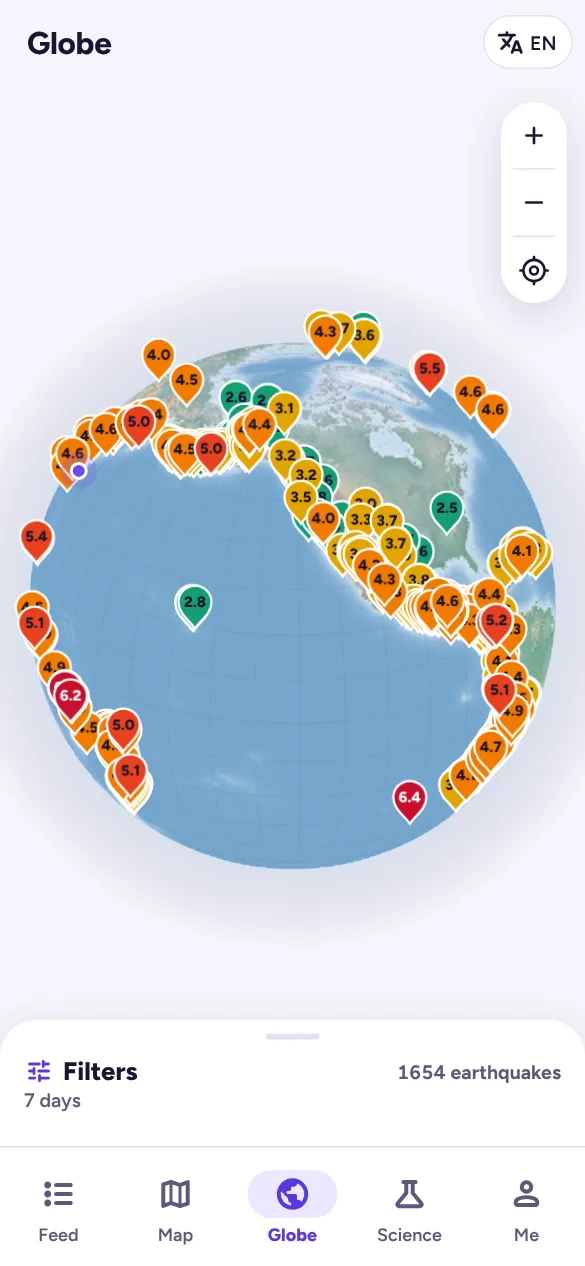
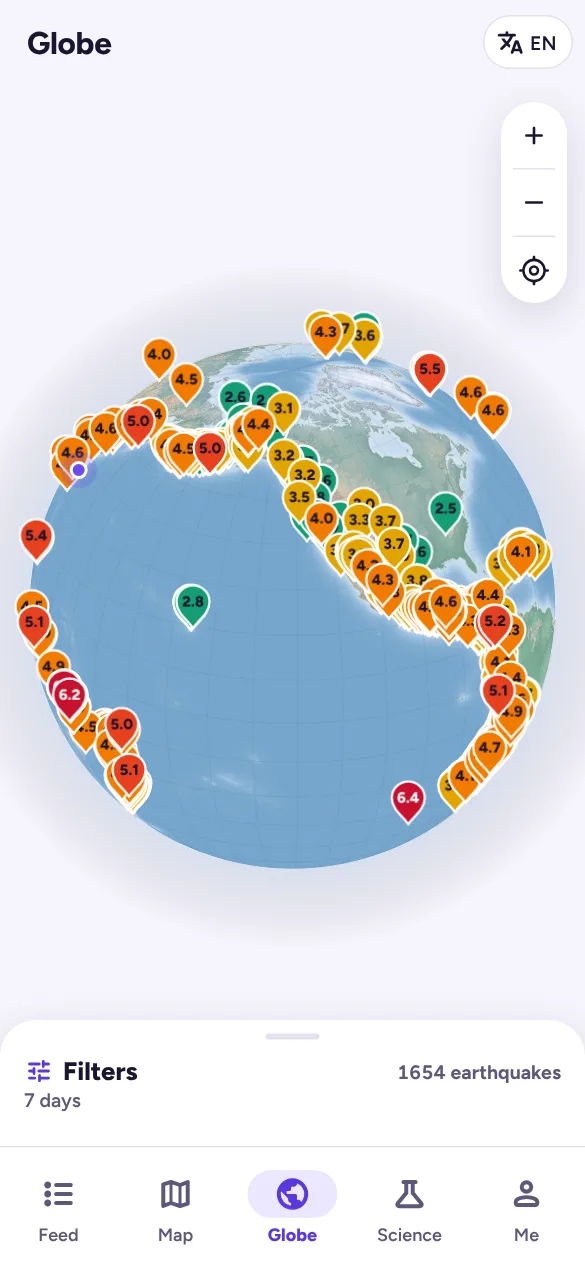
Globe: draw the relief with WebGL instead of resampling it per frame
The globe rebuilt its relief on the CPU each frame from a 2048 px texture at
up to 70,000 samples, then scaled the result up: zoomed in, every sample
covered several screen pixels, so coastlines were blocky and crawled as the
globe turned.

lib/relief-globe.ts draws it on the GPU instead, on a canvas under the 2D
canvas: a fragment shader maps each screen pixel back to longitude/latitude
(the same inverse as orthoInvert) and reads a 4096 x 2048 texture with
mipmapped linear filtering (WebGL 2; linear in WebGL 1), with an
anti-aliased edge. The detail level comes from the globe's size on screen,
so there is no seam at 180 degrees. It redraws only when the view moves, is
created only in the light theme (no context or download in dark), and
without WebGL the globe keeps the flat colours. The 2D canvas keeps the glow
outside the sphere and draws graticule, coastlines, plates and pins on top.

globe.webp is now 4096 x 2048 (about 400 kB). Help globe screenshot (light)
retaken; docs/maps-setup.md and CLAUDE.md updated.

Claude-Session: https://claude.ai/code/session_01VVoEA6g7d5oSRS2St1KTEW

diff --git a/app/src/components/Globe.tsx b/app/src/components/Globe.tsx
@@ -9,7 +9,8 @@ import { geoDistance, geoGraticule10, geoOrthographic, geoPath } from 'd3-geo';
 import { select } from 'd3-selection';
 import { zoom, zoomIdentity, zoomTransform, type ZoomBehavior } from 'd3-zoom';
 import { depthColor, depthInk, magIndex } from '@/lib/theme';
-import { RELIEF_ON, reliefGlobePixels } from '@/lib/relief';
+import { RELIEF_ON } from '@/lib/relief';
+import { createReliefGlobe } from '@/lib/relief-globe';
 import { markerHit } from '@/lib/pin';
 import { markerSprite, stampSprite } from '@/lib/marker-sprite';
 import { useMarkerStyle } from '@/components/MarkerStyle';
@@ -35,8 +36,6 @@ const TURN_MS = 700;
 const LOCATE_K = 4;
 
 const GRATICULE = geoGraticule10();
-/** Relief on the globe: at most this many texture samples per frame (scaled up to the globe's size on screen). */
-const RELIEF_SAMPLES = 70_000;
 // Remember the view between visits to the tab, like the design (globeRot / globeK).
 const memo: { rot: [number, number, number] | null; k: number } = { rot: null, k: 1 };
 
@@ -157,46 +156,19 @@ export const Globe = forwardRef<GlobeHandle, Props>(function Globe(props, ref) {
     st.px = 0; st.py = 0; st.pk = memo.k;
     zoomRef.current = { z, el: cv };
 
-    // Light theme: the relief texture (lib/relief.ts) reprojected onto the visible disc at up to RELIEF_SAMPLES points,
-    // drawn scaled up and clipped to the sphere. Recomputed only when the view moves. False until the texture is in.
-    const rel = { cv: document.createElement('canvas'), img: null as ImageData | null, key: '' };
-    const drawRelief = (Rs: number, rot: [number, number, number]) => {
-      const tex = reliefGlobePixels();
-      if (!tex) return false;
-      const x0 = Math.max(0, Math.floor(cx - Rs)), x1 = Math.min(W, Math.ceil(cx + Rs));
-      const y0 = Math.max(0, Math.floor(cy - Rs)), y1 = Math.min(H, Math.ceil(cy + Rs));
-      const bw = x1 - x0, bh = y1 - y0;
-      if (bw <= 0 || bh <= 0) return true;
-      const step = Math.max(1, Math.sqrt((bw * bh) / RELIEF_SAMPLES)), sw = Math.ceil(bw / step), sh = Math.ceil(bh / step);
-      const key = `${sw}x${sh}:${x0},${y0},${step.toFixed(3)}:${Rs.toFixed(2)}:${rot[0].toFixed(3)},${rot[1].toFixed(3)}`;
-      if (key !== rel.key) {
-        rel.key = key;
-        if (rel.cv.width !== sw || rel.cv.height !== sh || !rel.img) { rel.cv.width = sw; rel.cv.height = sh; rel.img = new ImageData(sw, sh); }
-        const out = rel.img.data, src = tex.data, tw = tex.w, th = tex.h, d = Math.PI / 180;
-        const cp = Math.cos(rot[1] * d), sp = Math.sin(rot[1] * d), lam = rot[0];
-        for (let j = 0; j < sh; j++) {
-          const v = -((y0 + (j + 0.5) * step) - cy) / Rs;
-          for (let i = 0; i < sw; i++) {
-            const u = ((x0 + (i + 0.5) * step) - cx) / Rs, o = (j * sw + i) * 4, rr = u * u + v * v;
-            if (rr > 1) { out[o + 3] = 0; continue; }
-            // Same as orthoInvert(u, v, λ, φ), inlined for speed.
-            const x = Math.sqrt(1 - rr);
-            let lon = Math.atan2(u, x * cp + v * sp) / d - lam;
-            lon = ((lon % 360) + 540) % 360 - 180;
-            const lat = Math.asin(Math.max(-1, Math.min(1, v * cp - x * sp))) / d;
-            const tx = Math.min(tw - 1, ((lon + 180) / 360 * tw) | 0), ty = Math.min(th - 1, Math.max(0, ((90 - lat) / 180 * th) | 0));
-            const s = (ty * tw + tx) * 4;
-            out[o] = src[s]; out[o + 1] = src[s + 1]; out[o + 2] = src[s + 2]; out[o + 3] = 255;
-          }
-        }
-        rel.cv.getContext('2d')?.putImageData(rel.img, 0, 0);
-      }
-      ctx.save();
-      ctx.beginPath(); path(SPHERE); ctx.clip();
-      ctx.imageSmoothingEnabled = true;
-      ctx.drawImage(rel.cv, x0, y0, sw * step, sh * step);
-      ctx.restore();
-      return true;
+    // Light theme: relief drawn by the GPU on a canvas underneath (lib/relief-globe.ts). Created only while the light
+    // theme is on (dark mode gets no WebGL context and no texture download) and removed when it goes; stays off if the
+    // device has no WebGL.
+    let rg: ReturnType<typeof createReliefGlobe> = null, gcv: HTMLCanvasElement | null = null, noGl = false;
+    const reliefLayer = (on: boolean) => {
+      if (on && !rg && !noGl) {
+        gcv = document.createElement('canvas');
+        gcv.setAttribute('aria-hidden', 'true');
+        Object.assign(gcv.style, { position: 'absolute', left: '0', top: '0', pointerEvents: 'none' });
+        rg = createReliefGlobe(gcv);
+        if (rg) wrap.insertBefore(gcv, cv); else { noGl = true; gcv = null; }
+      } else if (!on && rg) { rg.dispose(); gcv?.remove(); rg = null; gcv = null; }
+      return rg;
     };
 
     const frame = () => {
@@ -231,9 +203,17 @@ export const Globe = forwardRef<GlobeHandle, Props>(function Globe(props, ref) {
       memo.rot = proj.rotate();
       ctx.clearRect(0, 0, W, H);
       const Rs = proj.scale(), grd = ctx.createRadialGradient(cx, cy, Rs * 0.92, cx, cy, Rs * 1.3);
-      grd.addColorStop(0, theme.glow); grd.addColorStop(1, 'rgba(0,0,0,0)'); ctx.fillStyle = grd; ctx.fillRect(0, 0, W, H);
-      ctx.beginPath(); path(SPHERE); ctx.fillStyle = theme.sea; ctx.fill();
-      const relief = theme.relief && drawRelief(Rs, proj.rotate());
+      grd.addColorStop(0, theme.glow); grd.addColorStop(1, 'rgba(0,0,0,0)'); ctx.fillStyle = grd;
+      const layer = reliefLayer(theme.relief), relief = !!layer?.ready();
+      if (gcv) gcv.style.visibility = relief ? 'visible' : 'hidden';
+      if (relief) {
+        layer!.render({ W, H, dpr: window.devicePixelRatio || 1, cx, cy, R: Rs, rot: proj.rotate() });
+        // The glow only round the sphere: inside it, this canvas stays clear so the relief underneath shows.
+        ctx.save(); ctx.beginPath(); ctx.rect(0, 0, W, H); path(SPHERE); ctx.clip('evenodd'); ctx.fillRect(0, 0, W, H); ctx.restore();
+      } else {
+        ctx.fillRect(0, 0, W, H);
+        ctx.beginPath(); path(SPHERE); ctx.fillStyle = theme.sea; ctx.fill();
+      }
       ctx.beginPath(); path(GRATICULE); ctx.strokeStyle = theme.grat; ctx.lineWidth = 0.7; ctx.stroke();
       if (relief) { ctx.beginPath(); path(LAND); ctx.strokeStyle = theme.line; ctx.globalAlpha = 0.5; ctx.lineWidth = 0.5; ctx.stroke(); ctx.globalAlpha = 1; }
       else {
@@ -293,7 +273,7 @@ export const Globe = forwardRef<GlobeHandle, Props>(function Globe(props, ref) {
     };
     raf = requestAnimationFrame(frame);
     return () => {
-      cancelAnimationFrame(raf); ro.disconnect(); sel.on('.zoom', null); zoomRef.current = null;
+      cancelAnimationFrame(raf); ro.disconnect(); sel.on('.zoom', null); zoomRef.current = null; reliefLayer(false);
       cv.removeEventListener('pointerdown', onDown); cv.removeEventListener('pointerup', onUp); cv.removeEventListener('pointercancel', onCancel);
       cv.removeEventListener('pointermove', onMove); cv.removeEventListener('pointerleave', onLeave);
     };
@@ -301,7 +281,7 @@ export const Globe = forwardRef<GlobeHandle, Props>(function Globe(props, ref) {
 
   return (
     <div ref={wrapRef} style={{ position: 'absolute', inset: 0 }}>
-      <canvas ref={canvasRef} role="img" aria-label={props.label} style={{ display: 'block', touchAction: 'none', cursor: 'default' }} />
+      <canvas ref={canvasRef} role="img" aria-label={props.label} style={{ position: 'relative', display: 'block', touchAction: 'none', cursor: 'default' }} />
     </div>
   );
 });

diff --git a/app/src/lib/relief-globe.ts b/app/src/lib/relief-globe.ts
@@ -1,0 +1,114 @@
+// Relief on the globe (light theme), drawn by the GPU: a WebGL canvas under the globe's 2D canvas. Each screen pixel
+// inside the sphere is mapped back to longitude / latitude (the inverse of d3's orthographic projection with rotation
+// [λ, φ, 0], as orthoInvert in lib/relief.ts) and read from the relief texture with smooth filtering, so the image stays
+// sharp at every zoom and turns with the globe without redrawing artefacts. The level of detail is chosen from the
+// globe's size on screen (no per-pixel derivatives, so there is no seam at ±180°). WebGL 2 uses mipmaps; WebGL 1
+// falls back to plain linear filtering. If WebGL isn't available, `create` returns null and the globe keeps its flat
+// colours.
+import { RELIEF_GLOBE_URL } from './relief';
+
+export interface GlobeView { W: number; H: number; dpr: number; cx: number; cy: number; R: number; rot: [number, number, number] }
+export interface ReliefGlobe { ready: () => boolean; render: (v: GlobeView) => void; dispose: () => void }
+
+const VERT2 = `#version 300 es
+in vec2 aPos; void main() { gl_Position = vec4(aPos, 0.0, 1.0); }`;
+const FRAG2 = `#version 300 es
+precision highp float;
+uniform sampler2D uTex; uniform vec2 uCenter; uniform float uR, uH, uCp, uSp, uLam, uLod;
+out vec4 outColor;
+const float PI = 3.141592653589793;
+void main() {
+  float u = (gl_FragCoord.x - uCenter.x) / uR, v = -((uH - gl_FragCoord.y) - uCenter.y) / uR, rr = u * u + v * v;
+  float d = sqrt(rr), a = 1.0 - smoothstep(1.0 - 1.2 / uR, 1.0, d);
+  if (a <= 0.0) discard;
+  float x = sqrt(max(0.0, 1.0 - rr));
+  float lon = atan(u, x * uCp + v * uSp) - uLam, lat = asin(clamp(v * uCp - x * uSp, -1.0, 1.0));
+  vec3 c = textureLod(uTex, vec2(fract(lon / (2.0 * PI) + 0.5), 0.5 - lat / PI), uLod).rgb;
+  outColor = vec4(c * a, a);
+}`;
+const VERT1 = `attribute vec2 aPos; void main() { gl_Position = vec4(aPos, 0.0, 1.0); }`;
+const FRAG1 = `precision highp float;
+uniform sampler2D uTex; uniform vec2 uCenter; uniform float uR, uH, uCp, uSp, uLam, uLod;
+const float PI = 3.141592653589793;
+void main() {
+  float u = (gl_FragCoord.x - uCenter.x) / uR, v = -((uH - gl_FragCoord.y) - uCenter.y) / uR, rr = u * u + v * v;
+  float d = sqrt(rr), a = 1.0 - smoothstep(1.0 - 1.2 / uR, 1.0, d);
+  if (a <= 0.0) discard;
+  float x = sqrt(max(0.0, 1.0 - rr));
+  float lon = atan(u, x * uCp + v * uSp) - uLam, lat = asin(clamp(v * uCp - x * uSp, -1.0, 1.0));
+  vec3 c = texture2D(uTex, vec2(fract(lon / (2.0 * PI) + 0.5), 0.5 - lat / PI)).rgb;
+  gl_FragColor = vec4(c * a, a);
+}`;
+
+export function createReliefGlobe(canvas: HTMLCanvasElement): ReliefGlobe | null {
+  const opts: WebGLContextAttributes = { alpha: true, premultipliedAlpha: true, antialias: false, depth: false, stencil: false };
+  const gl2 = canvas.getContext('webgl2', opts);
+  const gl = (gl2 ?? canvas.getContext('webgl', opts)) as WebGLRenderingContext | null;
+  if (!gl) return null;
+  const v2 = !!gl2;
+
+  const shader = (type: number, src: string) => {
+    const s = gl.createShader(type)!; gl.shaderSource(s, src); gl.compileShader(s);
+    if (!gl.getShaderParameter(s, gl.COMPILE_STATUS)) { console.warn('relief shader', gl.getShaderInfoLog(s)); return null; }
+    return s;
+  };
+  const vs = shader(gl.VERTEX_SHADER, v2 ? VERT2 : VERT1), fs = shader(gl.FRAGMENT_SHADER, v2 ? FRAG2 : FRAG1);
+  if (!vs || !fs) return null;
+  const prog = gl.createProgram()!;
+  gl.attachShader(prog, vs); gl.attachShader(prog, fs); gl.linkProgram(prog);
+  if (!gl.getProgramParameter(prog, gl.LINK_STATUS)) { console.warn('relief program', gl.getProgramInfoLog(prog)); return null; }
+  gl.useProgram(prog);
+
+  const buf = gl.createBuffer();
+  gl.bindBuffer(gl.ARRAY_BUFFER, buf);
+  gl.bufferData(gl.ARRAY_BUFFER, new Float32Array([-1, -1, 1, -1, -1, 1, 1, 1]), gl.STATIC_DRAW);
+  const aPos = gl.getAttribLocation(prog, 'aPos');
+  gl.enableVertexAttribArray(aPos); gl.vertexAttribPointer(aPos, 2, gl.FLOAT, false, 0, 0);
+  const U = (n: string) => gl.getUniformLocation(prog, n);
+  const uCenter = U('uCenter'), uR = U('uR'), uH = U('uH'), uCp = U('uCp'), uSp = U('uSp'), uLam = U('uLam'), uLod = U('uLod');
+
+  let texW = 0, loaded = false, lost = false, lastKey = '';
+  const tex = gl.createTexture();
+  const img = new Image();
+  img.decoding = 'async';
+  img.onload = () => {
+    if (lost) return;
+    gl.bindTexture(gl.TEXTURE_2D, tex);
+    gl.texImage2D(gl.TEXTURE_2D, 0, gl.RGBA, gl.RGBA, gl.UNSIGNED_BYTE, img);
+    gl.texParameteri(gl.TEXTURE_2D, gl.TEXTURE_WRAP_S, gl.REPEAT);
+    gl.texParameteri(gl.TEXTURE_2D, gl.TEXTURE_WRAP_T, gl.CLAMP_TO_EDGE);
+    gl.texParameteri(gl.TEXTURE_2D, gl.TEXTURE_MAG_FILTER, gl.LINEAR);
+    if (v2) { gl.generateMipmap(gl.TEXTURE_2D); gl.texParameteri(gl.TEXTURE_2D, gl.TEXTURE_MIN_FILTER, gl.LINEAR_MIPMAP_LINEAR); }
+    else gl.texParameteri(gl.TEXTURE_2D, gl.TEXTURE_MIN_FILTER, gl.LINEAR);
+    texW = img.naturalWidth; loaded = true; lastKey = '';
+  };
+  img.src = RELIEF_GLOBE_URL;
+  const onLost = (e: Event) => { e.preventDefault(); lost = true; loaded = false; };
+  canvas.addEventListener('webglcontextlost', onLost);
+
+  return {
+    ready: () => loaded && !lost,
+    render: ({ W, H, dpr, cx, cy, R, rot }) => {
+      if (!loaded || lost) return;
+      const w = Math.round(W * dpr), h = Math.round(H * dpr);
+      if (canvas.width !== w || canvas.height !== h) { canvas.width = w; canvas.height = h; canvas.style.width = W + 'px'; canvas.style.height = H + 'px'; lastKey = ''; }
+      const key = `${w}x${h}|${cx},${cy},${R.toFixed(3)}|${rot[0].toFixed(4)},${rot[1].toFixed(4)}`;
+      if (key === lastKey) return; // the view hasn't moved
+      lastKey = key;
+      const r = Math.PI / 180, Rd = R * dpr;
+      gl.viewport(0, 0, w, h);
+      gl.clearColor(0, 0, 0, 0); gl.clear(gl.COLOR_BUFFER_BIT);
+      gl.useProgram(prog);
+      gl.uniform2f(uCenter, cx * dpr, cy * dpr); gl.uniform1f(uR, Rd); gl.uniform1f(uH, h);
+      gl.uniform1f(uCp, Math.cos(rot[1] * r)); gl.uniform1f(uSp, Math.sin(rot[1] * r)); gl.uniform1f(uLam, rot[0] * r);
+      // Texels per screen pixel at the centre of the disc: texW / (2π) per radian of longitude over Rd pixels.
+      gl.uniform1f(uLod, Math.max(0, Math.log2(texW / (2 * Math.PI) / Rd)));
+      gl.drawArrays(gl.TRIANGLE_STRIP, 0, 4);
+    },
+    dispose: () => {
+      canvas.removeEventListener('webglcontextlost', onLost);
+      gl.deleteTexture(tex); gl.deleteBuffer(buf); gl.deleteProgram(prog); gl.deleteShader(vs); gl.deleteShader(fs);
+      gl.getExtension('WEBGL_lose_context')?.loseContext();
+    },
+  };
+}

diff --git a/app/src/lib/relief.ts b/app/src/lib/relief.ts
@@ -29,26 +29,9 @@ export function reliefImage(url: string, onLoad?: () => void): HTMLImageElement 
 }
 
 /**
- * The globe texture as pixels (2048 × 1024, equirectangular: x = longitude −180…180, y = latitude 90…−90), once loaded.
- */
-let globePixels: { w: number; h: number; data: Uint8ClampedArray } | null = null;
-export function reliefGlobePixels(onLoad?: () => void) {
-  if (globePixels) return globePixels;
-  const img = reliefImage(RELIEF_GLOBE_URL, onLoad);
-  if (!img) return null;
-  const c = document.createElement('canvas');
-  c.width = img.naturalWidth; c.height = img.naturalHeight;
-  const ctx = c.getContext('2d', { willReadFrequently: true });
-  if (!ctx) return null;
-  ctx.drawImage(img, 0, 0);
-  globePixels = { w: c.width, h: c.height, data: ctx.getImageData(0, 0, c.width, c.height).data };
-  return globePixels;
-}
-
-/**
  * Longitude / latitude (degrees) under a point of an orthographic globe, for a d3 rotation [λ, φ, 0] (degrees) and a
- * point (u, v) on the unit disc (u right, v up; u² + v² ≤ 1). Same result as d3's geoOrthographic().rotate().invert,
- * without per-point projection objects (used for every pixel of the globe texture).
+ * point (u, v) on the unit disc (u right, v up; u² + v² ≤ 1). Same result as d3's geoOrthographic().rotate().invert;
+ * the globe's relief shader (lib/relief-globe.ts) does the same per pixel, and the test checks this against d3.
  */
 export function orthoInvert(u: number, v: number, lambda: number, phi: number): [number, number] {
   const r = Math.PI / 180, x = Math.sqrt(Math.max(0, 1 - u * u - v * v)), y = u, z = v;

diff --git a/docs/maps-setup.md b/docs/maps-setup.md
@@ -13,7 +13,9 @@ The light theme's Mercator map and globe show Natural Earth's "Cross Blended Hyp
 (1:50m, 10 800 × 5 400 px, public domain; naturalearthdata.com, also in github.com/nvkelso/natural-earth-raster under
 `50m_rasters/HYP_50M_SR_W/`). `scripts/relief-tiles.mjs` turns it into `public/relief/`: 256 px web-Mercator tiles,
 zoom 0–5 (WebP quality 90, about 6 MB in all; lower quality shows seams between tiles when scaled up) and
-`globe.webp` (2048 × 1024) for the globe. The tiles are served with the site, so no outside service is involved.
+`globe.webp` (4096 × 2048, about 400 kB) for the globe. The globe draws it with WebGL (`lib/relief-globe.ts`): each
+screen pixel is mapped back to longitude / latitude in a shader and read with smooth (mipmapped) filtering, on a canvas
+under the globe's 2D canvas. It is created only in the light theme; without WebGL the globe keeps the flat colours. The tiles are served with the site, so no outside service is involved.
 Between zoom 5 and the street tiles (web zoom 6.5–7.5) the zoom-5 tiles are scaled up. The dark theme and the
 dashboard's Equal Earth map keep the flat colours; `NEXT_PUBLIC_RELIEF=off` turns the layer off.
 

diff --git a/CLAUDE.md b/CLAUDE.md
@@ -49,7 +49,8 @@ Rename app/src/app/app/science/-slug-/ to app/src/app/app/science/[slug]/ (the e
    My location button (map tools; globe zoom pill): device position via AppState.locateHere (asks for access, leaves the
    chosen location as it is), glides / turns there and zooms in; a ringed dot marks it when another place is chosen in Me
    Relief (light theme): Natural Earth hypsometric tints + shaded relief as tiles in public/relief/ (scripts/relief-tiles.mjs,
-   lib/relief.ts) under the borders on the Mercator map, and as a texture on the globe; docs/maps-setup.md
+   lib/relief.ts) under the borders on the Mercator map, and as a WebGL-drawn texture on the globe (lib/relief-globe.ts);
+   docs/maps-setup.md
 5. Globe tab (done): canvas orthographic, drag-rotate, auto-spin, Depth mode (radial lines scaled by depth) — components/Globe.tsx
    Events are the same numbered pins as the maps (lib/pin.ts; Depth mode fills them by depth), drawn from cached sprites
 6. Science (done): list + article with the four canvas visuals (plates, faults, waves, tsunami) and the
